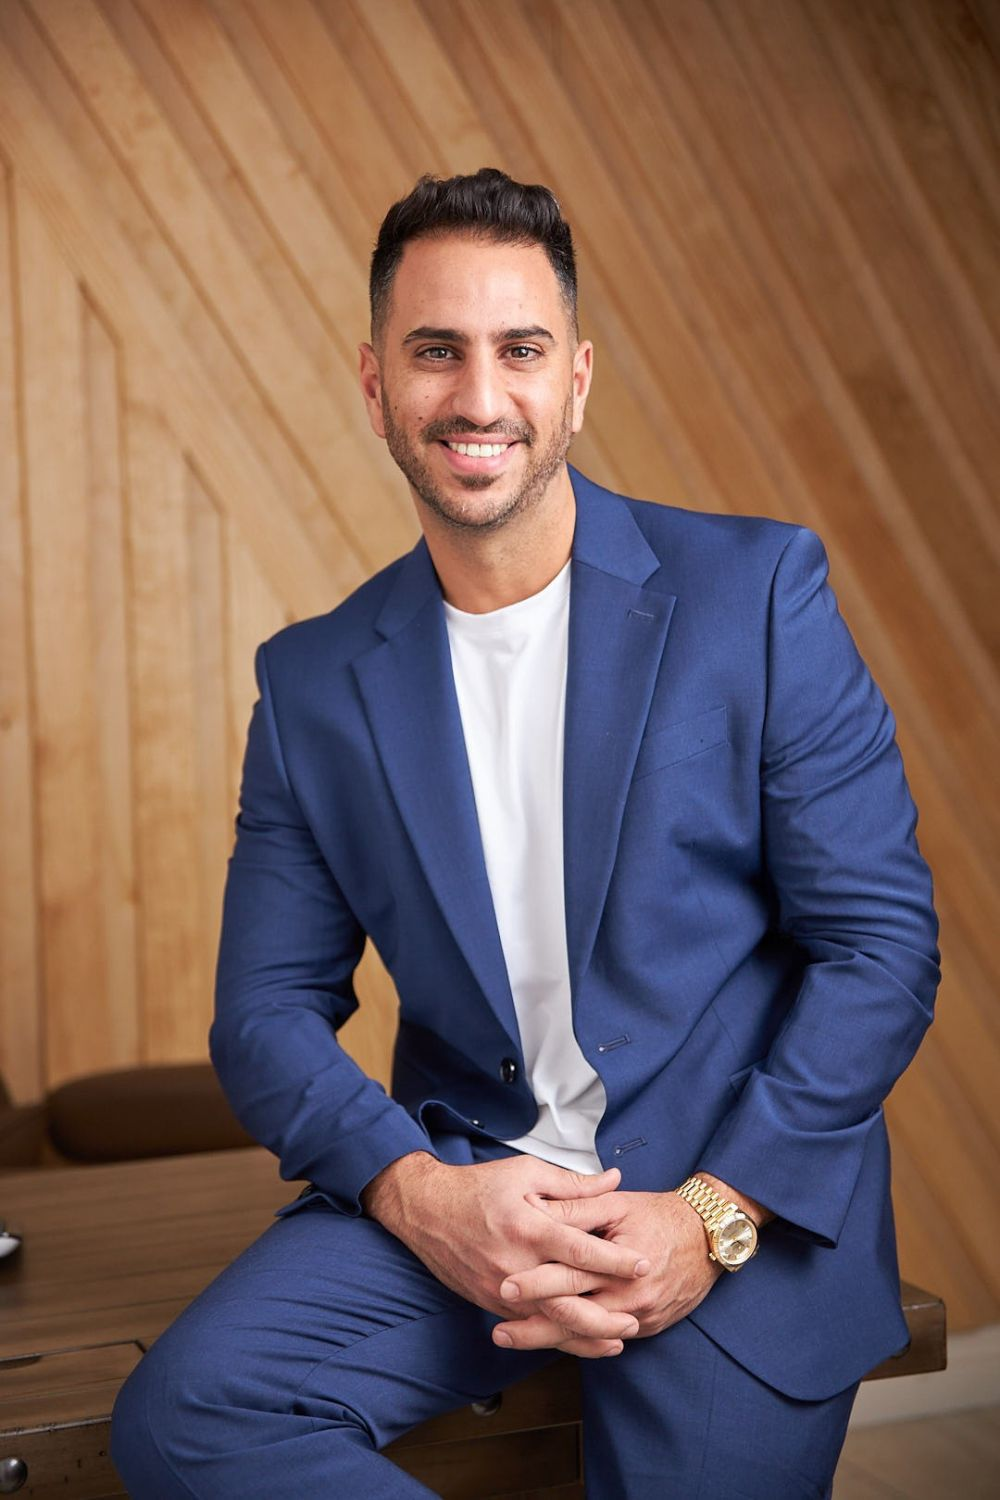
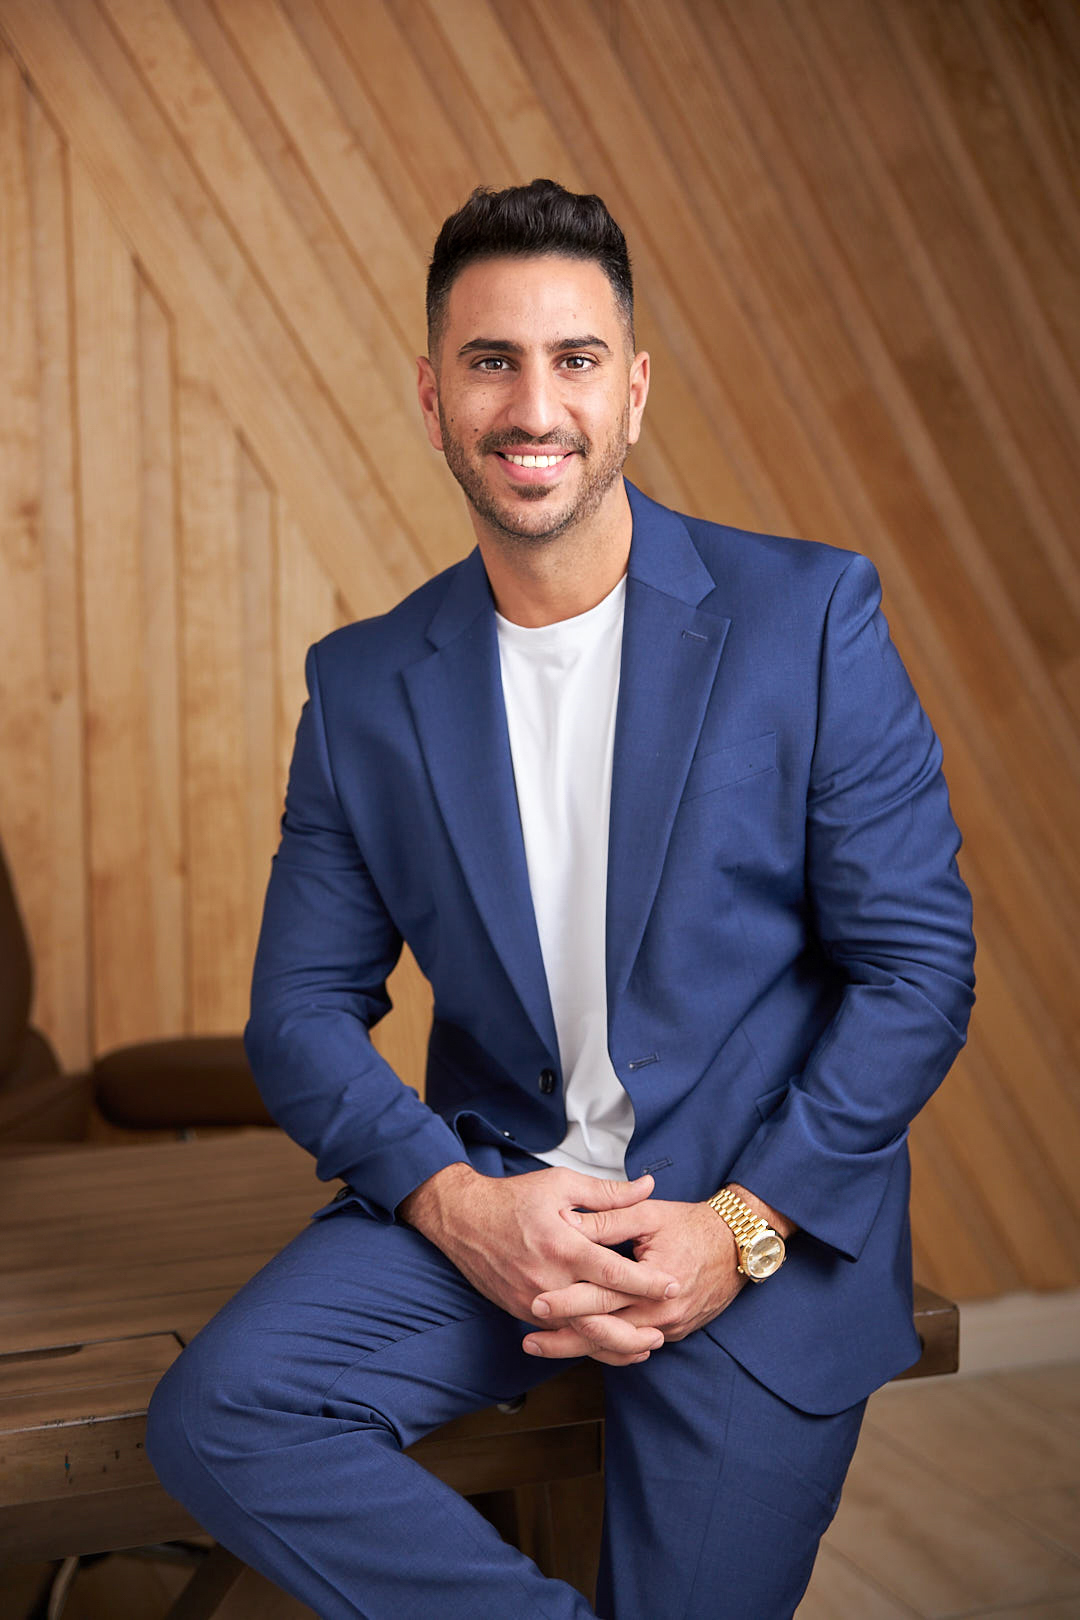
main

diff --git a/index.html b/index.html
@@ -9,6 +9,9 @@
         <meta name="author" content="" />
         <!-- Title Of Site -->
         <title>Tamir Gluska | Bio</title>
+
+        
+        
         <!-- Favicon -->
         <link rel="shortcut icon" href="assets/images/favicon.png" type="image/x-icon">
 
@@ -90,7 +93,7 @@
                                             <span>I'm a <span class="typewrite font-weight-bold" data-period="2000" data-type='[ "Logo Designer", "UI/UX Designer", "Web Developer"]'><span class="wrap"></span></span></span>
                                         </div> -->
                                         <h5 class="text-center">Founder and CEO of Green Planet, BloomStem CBD, and Si Scent</h4>
-                                            <p class="lorem-text animate__animated animate__zoomIn animate__delay-2-5s">Tamir Gluska is a visionary entrepreneur and founder behind Green Planet CBD, BloomStem CBD, Si Scent, Seven Builders, and Gluska Management.
+                                            <p class="lorem-text animate__animated animate__zoomIn animate__delay-2-5s">Tamir Gluska is a visionary entrepreneur and founder behind Green Planet CBD, BloomStem CBD, Seven Builders, and Gluska Management.
 
                                                 From wellness to construction, Tamir builds bold ventures rooted in purpose, passion, and people.
                                             </p>
@@ -151,20 +154,23 @@
                                         <div class="col-lg-8 align-self-center">
                                             <div class="short-description card-p30 wow fadeInUp">
                                                 <h3>Tamir Gluska leads by building — from the ground up.</h3>
-                                                <p class="info">As the force behind several transformative ventures, Tamir combines vision with execution to scale concepts like BloomStem, GreenPlanet, and Seven Builders.</p>
-                                                <p class="info">Tamir Gluska has always followed his entrepreneurial spirit. From discovering the power of CBD through his own wellness journey, to launching his first Green Planet store on the Las Vegas Strip, Tamir has built a portfolio grounded in integrity, passion, and service.</p>
-                                                <p class="info">When the pandemic challenged his growing brand, Tamir pivoted, launching a thriving eCommerce platform and expanding nationally. Today, Green Planet is recognized for high-potency, USA-made CBD products that promote natural wellness.</p>
+                                                <p class="info">Tamir Gluska is a multidisciplinary entrepreneur and the founder of Gluska Management, a brand management and investment firm overseeing a growing portfolio of ventures across wellness, lifestyle retail, and real estate development.</p>
+                                                <p class="info"></p>
+                                                <!-- <p class="info">When the pandemic challenged his growing brand, Tamir pivoted, launching a thriving eCommerce platform and expanding nationally. Today, Green Planet is recognized for high-potency, USA-made CBD products that promote natural wellness.</p> -->
                                                 <ul>
-                                                    Driven by his desire to innovate, Tamir has since introduced two sister brands:
-                                                  <li>BloomStem CBD — a luxury-focused CBD brand crafted for elevated self-care.
+                                                    Gluska Management was created to centralize and scale Tamir’s business ventures by providing strategic leadership, operational infrastructure, and brand oversight. Under its umbrella are:
+                                                  <li>Green Planet — a CBD company offering premium, high-potency wellness products with locations in Las Vegas, San Francisco, and Hawaii.
                                                   </li>
-                                                  <li>Si Scent — an aromatherapy and home goods brand inspired by nature.</li>
+                                                  <li>BloomStem — a luxury wellness brand built for the modern self-care consumer.</li>
+                                                  <li>Seven Builders — a design-forward construction company dedicated to quality, trust, and smart development.</li>
                                                 </ul>
-                                                <p class="info">In 2023, Tamir expanded into the construction and real estate space as CEO of Seven Builders, bringing his operational leadership and branding vision to a new sector focused on trust, quality, and smart design.</p>
-                                                <p class="info">With a dedication to community, education, and giving back, Tamir continues to lead his ventures toward national expansion — all while staying true to his mission of improving lives through purposeful solutions.</p>
-                                                <p class="info">To unify and elevate these initiatives, Tamir established Gluska Management — the umbrella company that supports, scales, and oversees his growing ecosystem of wellness, lifestyle, and service-based brands.
-
+                                                <p class="info">Tamir’s entrepreneurial journey began with a personal mission: to find better wellness solutions. That journey led to the creation of Green Planet, which grew from a single Las Vegas storefront into a nationally recognized CBD brand. As the pandemic reshaped the retail landscape, Tamir quickly pivoted to eCommerce and leaned into expansion, growing both his customer base and brand footprint.</p>
+                                                <p class="info">In 2023, Tamir launched Seven Builders to bring his operational and branding expertise into the construction space, merging disciplined leadership with a commitment to excellence. Through BloomStem, he continues to explore the intersection of wellness, beauty, and brand storytelling.</p>
+                                                <p class="info">At the center of it all is Gluska Management, the structure that allows Tamir to do what he does best: build, scale, and lead with purpose.
                                                 </p>
+                                                <p class="info"><blockquote>"From wellness to construction, I build companies that improve lives."</blockquote> Tamir Gluska
+                                                </p>
+                                                
                                             </div>
                                         </div>
                                     </div>
@@ -216,9 +222,9 @@
                             <div class="col-6 col-sm-4 col-md-4 col-lg-3 col-item">
                                 <a class="animate-scale" href="#"><img class="img-fluid" src="assets/images/partner/2.png" alt="clients" /></a>
                             </div>
-                            <div class="col-6 col-sm-4 col-md-4 col-lg-3 col-item">
+                            <!-- <div class="col-6 col-sm-4 col-md-4 col-lg-3 col-item">
                                 <a class="animate-scale" href="#"><img class="img-fluid" src="assets/images/partner/3.png" alt="clients" /></a>
-                            </div>
+                            </div> -->
                             <div class="col-6 col-sm-4 col-md-4 col-lg-3 col-item">
                                 <a class="animate-scale" href="#"><img class="img-fluid" src="assets/images/partner/4.png" alt="clients" /></a>
                             </div>
@@ -267,7 +273,7 @@
                                     </div>
                                     <div class="info-content">
                                         <h5>My Location:</h5>
-                                        <p>23 Quincy Street, New York</p>
+                                        <p>6950 W. Via Olivero Ave #3, Las Vegas, NV 89117</p>
                                     </div>
                                 </div>
                             </div>
@@ -280,7 +286,7 @@
                                     </div>
                                     <div class="info-content">
                                         <h5>Phone Number:</h5>
-                                        <p><a href="tel:+011234567890" class="d-inline-block">(+01) 123 456 7890</a></p>
+                                        <p><a href="tel:855-233-0077" class="d-inline-block">(855) 233-0077</a></p>
                                     </div>
                                 </div>
                             </div>
@@ -293,7 +299,7 @@
                                     </div>
                                     <div class="info-contentr">
                                         <h5>Email Address:</h5>
-                                        <p><a href="#" class="d-inline-block">info@example.com</a></p>
+                                        <p><a href="mailto:service@gluskainc.com" class="d-inline-block">service@gluskainc.com</a></p>
                                     </div>
                                 </div>
                             </div>
@@ -353,7 +359,7 @@
                             <div class="col-lg-6">
                                 <!-- Google Map -->
                                 <div class="google-map-wrapper  card-p20 responsive-map wow fadeInUp">
-                                    <iframe src="https://www.google.com/maps/embed?pb=" style="border:0;" allowfullscreen="" aria-hidden="false" tabindex="0"></iframe>
+                                    <iframe src="https://www.google.com/maps/embed?pb=!1m18!1m12!1m3!1d3221.8166876084215!2d-115.2443266!3d36.1466764!2m3!1f0!2f0!3f0!3m2!1i1024!2i768!4f13.1!3m3!1m2!1s0x80c8c0ddbd968d5f%3A0x7e101374ead0cc1e!2s6950%20W%20Via%20Olivero%20Ave%20%233%2C%20Las%20Vegas%2C%20NV%2089117!5e0!3m2!1sen!2sus!4v1748362533622!5m2!1sen!2sus" width="600" height="450" style="border:0;" allowfullscreen="" loading="lazy" referrerpolicy="no-referrer-when-downgrade"></iframe>
                                 </div>
                                 <!-- End Google Map -->
                             </div>
@@ -370,7 +376,7 @@
             <footer id="footer" class="footer bg-light py-4 py-sm-4">
                 <!-- Container -->
                 <div class="container">
-                    <p class="copyright text-center">&copy; 2025 <a href="index.html">Shivam</a>&nbsp; - &nbsp;All rights reserved.</p>
+                    <p class="copyright text-center">&copy; 2025 <a href="index.html">Tamir Gluska</a>&nbsp; - &nbsp;All rights reserved.</p>
                 </div>
                 <!-- End Container -->
             </footer>
@@ -383,7 +389,10 @@
         <!-- End Page Wrapper -->
 
 
-        <!-- *********** JS Files *********** -->      
+        <!-- *********** JS Files *********** -->  
+            <!-- logo -->
+
+
         <!-- Plugin JS  -->
         <script src="assets/js/plugins.js"></script>
 

diff --git a/assets/css/style.css b/assets/css/style.css
@@ -224,7 +224,7 @@ p:last-child { margin-bottom: 0; }
 .home-section { min-height: 100vh; padding: 70px 0; position: relative; display: -ms-flexbox; display: flex; -ms-flex-align: center; align-items: center; background-repeat: no-repeat; background-position: center; background-size: cover; }
 .home-section:after { content: ""; position: absolute; width: 100%; height: 100%; top: 0px; left: 0px; background: rgba(0,0,0,0.8); z-index: 2; }
 .home-section .home-content { text-align: center; position: relative; z-index: 6; }
-.home-section .home-content .home-image img { width: 500px; height: 1000px; border-radius: 15%; object-fit: cover; display: inline-block; border: 5px solid #252e4d; margin-bottom: 30px; box-shadow: 0px 5px 20px 0px rgba(69, 67, 96, 0.1); }
+.home-section .home-content .home-image img { width: 500px; height: 800px; border-radius: 5%; object-fit: cover; display: inline-block; border: 5px solid #252e4d; margin-bottom: 30px; box-shadow: 0px 5px 20px 0px rgba(69, 67, 96, 0.1); }
 .home-section .home-content .heading { font-size: 40px; line-height: 50px; font-weight: 700; margin-bottom: 10px; color: #ffffff; }
 .home-section .home-content .designation span { font-size: 18px; font-weight: 600; color: #ffffff; }
 .home-section .home-content .designation span .typewrite .wrap { color:#252e4d; }
